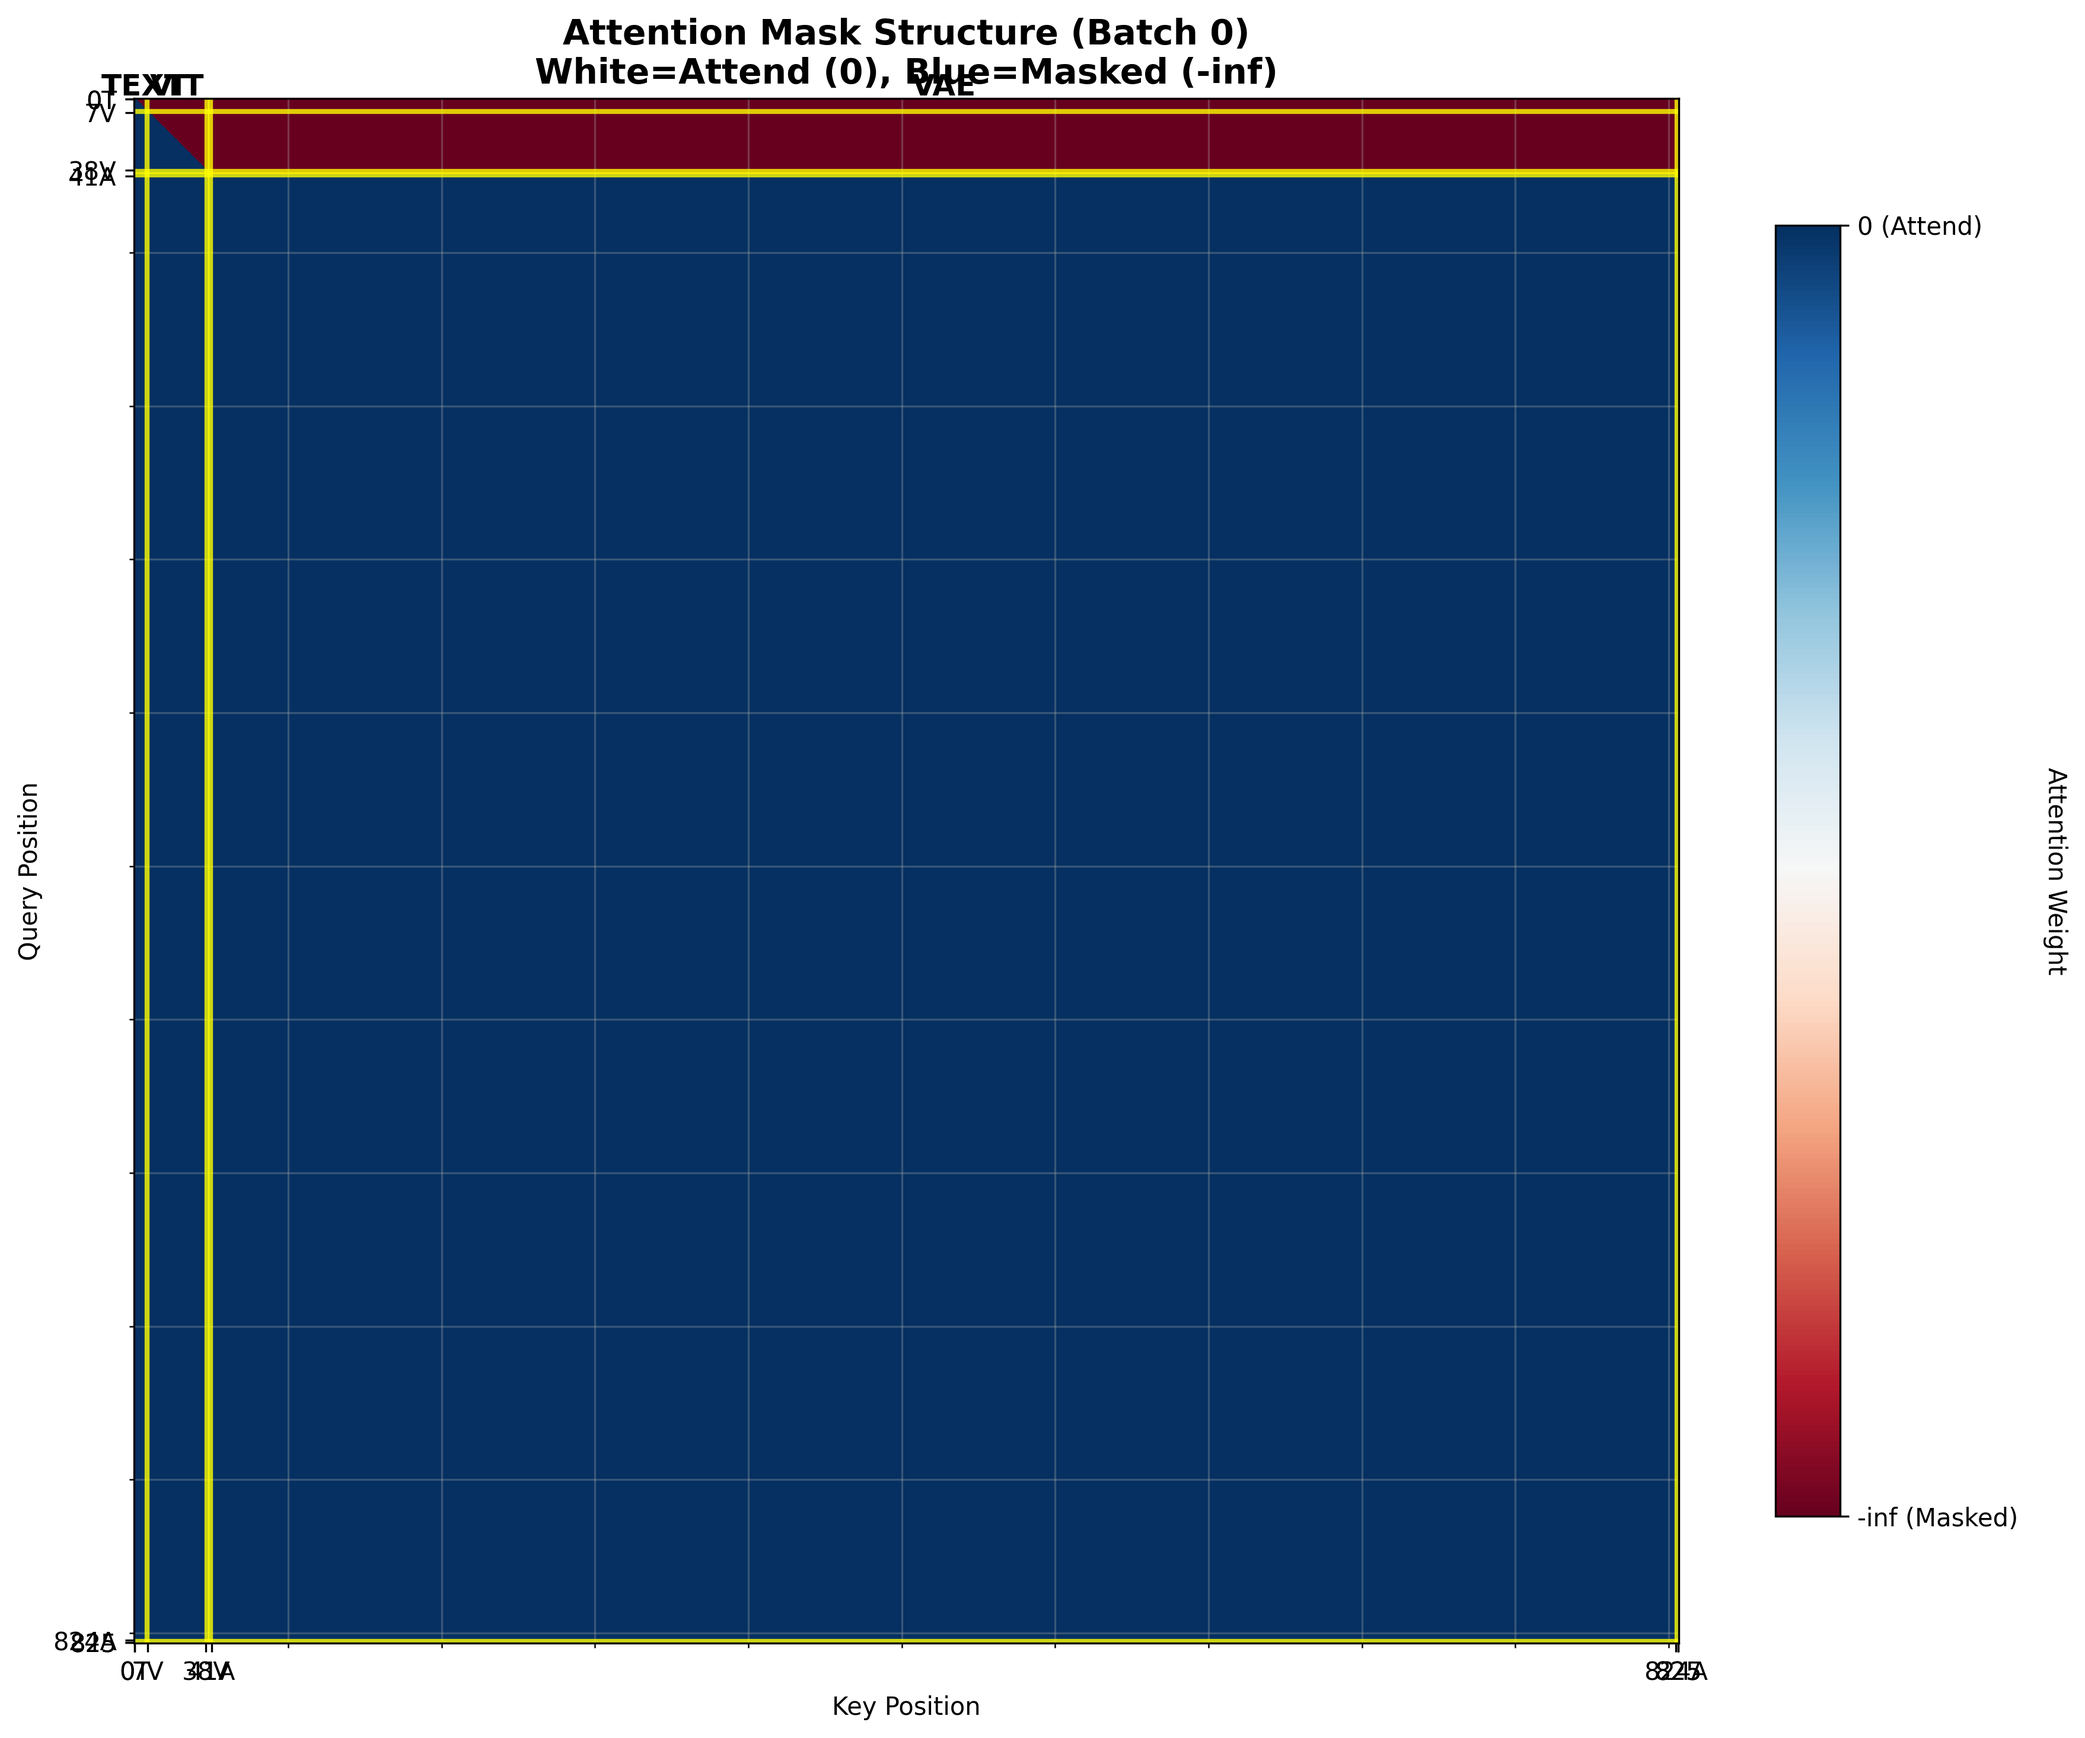
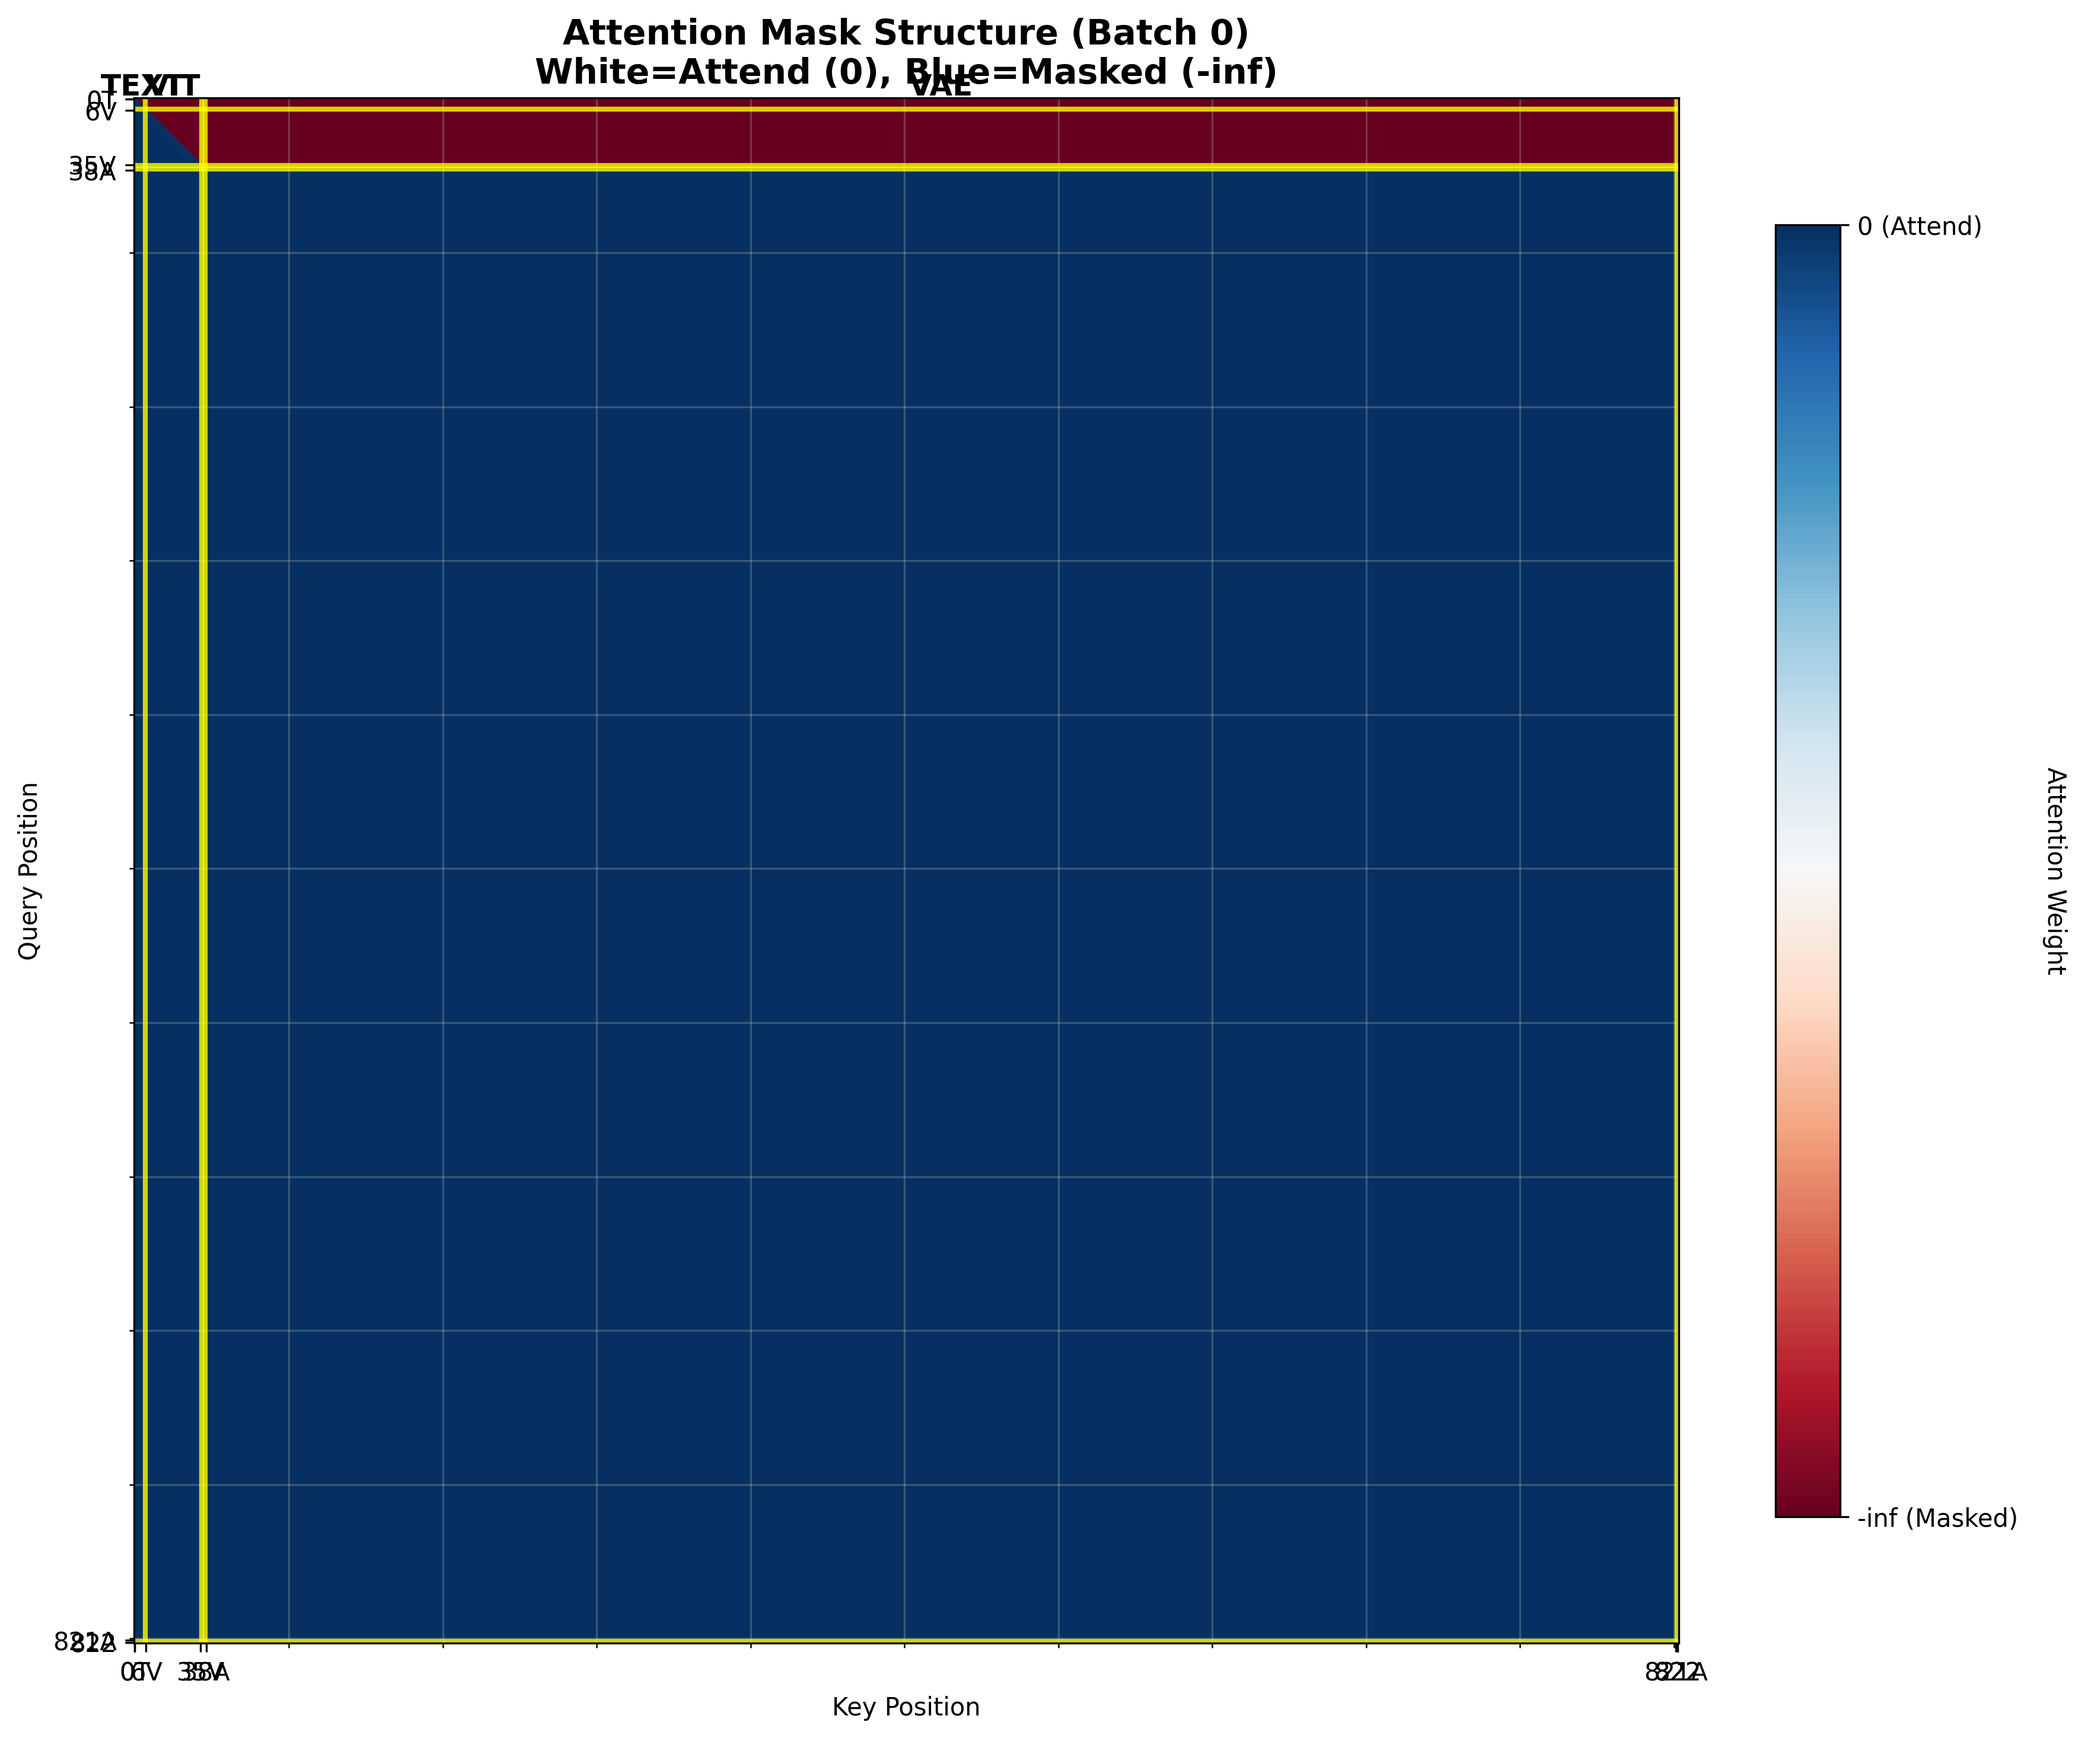
fix timestep issue

diff --git a/data/vilex_dataset.py b/data/vilex_dataset.py
@@ -196,12 +196,7 @@ class VilexDataset(torch.utils.data.IterableDataset):
         # Text loss
         ce_loss_indexes.extend(range(curr, curr + len(shifted_text)))
         weight_value = len2weight(len(shifted_text))
-        if padding and text_cut > 0:
-            # Only apply zero weights for padding tokens when padding is enabled
-            ce_loss_weights.extend([weight_value] * (len(shifted_text) - text_cut) + [0.0] * text_cut)
-        else:
-            # No padding or padding disabled - all tokens get weight
-            ce_loss_weights.extend([weight_value] * len(shifted_text))
+        ce_loss_weights.extend([weight_value] * len(shifted_text))
         
         curr += len(shifted_text)
         text_split_len += len(shifted_text)
@@ -234,22 +229,22 @@ class VilexDataset(torch.utils.data.IterableDataset):
         packed_vit_tokens.append(vit_patches)
         curr += num_queries
         vit_split_len += num_queries
-
-        packed_text_ids.extend([self.eos_token_id])
-        packed_text_indexes.append(curr)
-
-        curr += 1
-        packed_position_ids.extend([rope_id])
-        rope_id += 1
-        text_split_len +=1
-        
-
-        # ViT position IDs (2D flattened)
+        packed_position_ids.extend(range(rope_id, rope_id + vit_split_len))
+        rope_id += vit_split_len
         h, w = image_tensor.shape[1:]
         vit_pos_ids = get_flattened_position_ids_extrapolate(
             h, w, self.vit_patch_size, max_num_patches_per_side = 70
         )
         packed_vit_position_ids.extend([vit_pos_ids])
+
+        packed_text_ids.extend([self.eos_token_id])
+        packed_text_indexes.append(curr)
+        curr += 1
+        packed_position_ids.extend([rope_id])
+        rope_id += 1
+        text_split_len +=1
+
+
 
         packed_text_ids.append(self.start_of_image)
         packed_text_indexes.append(curr)
@@ -257,6 +252,14 @@ class VilexDataset(torch.utils.data.IterableDataset):
         packed_position_ids.extend([rope_id])
         rope_id += 1
         text_split_len +=1
+
+
+        split_lens.append(text_split_len)
+        split_lens.append(vit_split_len)
+        attn_modes.append("causal")
+        
+        # 3. VAE BLOCK
+        
         
         # End of image -- currently not applied
         # packed_text_ids.append(self.end_of_image)
@@ -268,37 +271,17 @@ class VilexDataset(torch.utils.data.IterableDataset):
         # All ViT tokens get same RoPE position as text
 
         
-        packed_position_ids.extend(range(rope_id, rope_id + vit_split_len))
-        rope_id += vit_split_len
-        split_lens.append(text_split_len)
-        split_lens.append(vit_split_len)
-        attn_modes.append("causal")
-        
-        # 3. VAE BLOCK
+
         vae_split_len = 0
-        
-        # Start of image
-        
-        # vae_split_len += 1 -- instead append a small split lens of size 2
-        
-        # VAE tokens
         packed_vae_token_indexes.extend(range(curr, curr + num_vae_tokens))
         mse_loss_indexes.extend(range(curr, curr + num_vae_tokens))
         
         # Random timestep for diffusion
-        timestep = np.random.randint(0, 1000) # no bound?
+        timestep = np.random.randn() # no bound?
         packed_timesteps.extend([timestep] * num_vae_tokens)
         
         curr += num_vae_tokens
         vae_split_len += num_vae_tokens
-        
-        # End of image
-        packed_text_ids.append(self.end_of_image)
-        packed_text_indexes.append(curr)
-        curr += 1
-        vae_split_len += 1 
-        packed_position_ids.extend([rope_id])
-        rope_id += 1
 
         
         # All VAE tokens get same RoPE position
@@ -312,8 +295,18 @@ class VilexDataset(torch.utils.data.IterableDataset):
                     )
                 )
         rope_id += 1
-        split_lens.append(vae_split_len)
+
+
+        packed_text_ids.append(self.end_of_image)
+        packed_text_indexes.append(curr)
+        curr += 1
+        vae_split_len += 1 # for simplicity here -- becaus last token doesnt matter casual or full
+        packed_position_ids.extend([rope_id])
+        rope_id += 1        
+        
+        split_lens.append(vae_split_len) 
         attn_modes.append("noise")  # For diffusion training
+
 
         nested_attention_masks = [self._prepare_attention_mask(split_lens, attn_modes)]
         

diff --git a/modeling/bagel/bagel_vilex.py b/modeling/bagel/bagel_vilex.py
@@ -268,6 +268,8 @@ class Bagel(PreTrainedModel):
         noise = torch.randn_like(packed_latent_clean)
         packed_timesteps = torch.sigmoid(packed_timesteps)
         packed_timesteps = self.timestep_shift * packed_timesteps / (1 + (self.timestep_shift - 1) * packed_timesteps)
+        print(f"example of packedtimie steps {pacled_timesteps}")
+        print(f"example shape of packed timesteps {packed_timesteps.shape}")
         packed_latent = (1 - packed_timesteps[:, None]) * packed_latent_clean + packed_timesteps[:, None] * noise
         packed_timestep_embeds = self.time_embedder(packed_timesteps)
         latent_token_pos_emb = self.latent_pos_embed(packed_latent_position_ids)
